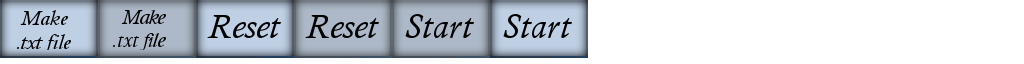
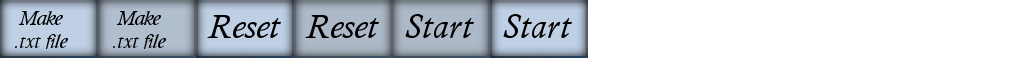
assets update

Changed region(s): [[0.0, 0.5312, 0.1875, 0.7812], [0.0, 0.1562, 0.1875, 0.4062]]

diff --git a/core/src/com/mygdx/deleter/screens/MainScreen.java b/core/src/com/mygdx/deleter/screens/MainScreen.java
@@ -15,6 +15,7 @@ import com.badlogic.gdx.scenes.scene2d.ui.Skin;
 import com.badlogic.gdx.scenes.scene2d.ui.Table;
 import com.mygdx.deleter.DeleterProject;
 import com.mygdx.deleter.ui.ButtonStart;
+import com.mygdx.deleter.ui.ButtonTxtMake;
 import com.mygdx.deleter.ui.IClickCallback;
 import com.mygdx.deleter.ui.TxtFileHandler;
 
@@ -45,7 +46,7 @@ public class MainScreen extends AbstractScreen {
 	private static List<String> inputFilesList;
 	public static List<String> fotoListFromTXT;
 	ButtonStart startButton;
-	ButtonStart makeTxtButton;
+	ButtonTxtMake buttonTxtStart;
 	
 	
 	public MainScreen(DeleterProject dp) {
@@ -80,9 +81,15 @@ public class MainScreen extends AbstractScreen {
 			System.err.println("click start");			
 		}
 	});
-		 
 	
-		 
+	 buttonTxtStart = new ButtonTxtMake(new IClickCallback() {
+		
+		@Override
+		public void onClick() {
+			TxtFileHandler.makeTXTFile(inputFilesList);
+		}
+	});
+		 	 
 	}
 
 	public static void initDragNDrop(Lwjgl3ApplicationConfiguration config) {
@@ -107,8 +114,7 @@ public class MainScreen extends AbstractScreen {
 					inputFilesList.add(file);
 				}
 				addMessageBottomPannel("File type: ." + fileType);
-				// TODO przerzucic do przycisku
-				//
+				
 			}
 		});
 	}
@@ -180,7 +186,7 @@ public class MainScreen extends AbstractScreen {
 		tableRight.row();
 		tableRight.add("2").height(145f).expandX().padTop(10f);
 		tableRight.row();
-		tableRight.add().height(56f).expandX().padTop(25f);
+		tableRight.add(buttonTxtStart).height(56f).expandX().padTop(25f);
 		tableRight.row();
 		tableRight.add(startButton).height(56f).width(96f).padBottom(20f).padTop(20f);
 		

diff --git a/core/src/com/mygdx/deleter/ui/ButtonTxtMake.java b/core/src/com/mygdx/deleter/ui/ButtonTxtMake.java
@@ -1,0 +1,45 @@
+package com.mygdx.deleter.ui;
+
+import com.badlogic.gdx.graphics.g2d.TextureAtlas;
+import com.badlogic.gdx.scenes.scene2d.InputEvent;
+import com.badlogic.gdx.scenes.scene2d.ui.Skin;
+import com.badlogic.gdx.scenes.scene2d.ui.Button;
+import com.badlogic.gdx.scenes.scene2d.ui.Button.ButtonStyle;
+import com.badlogic.gdx.scenes.scene2d.utils.ClickListener;
+
+public class ButtonTxtMake extends Button{
+	private static TextureAtlas startButtonAtlas;
+	public ButtonTxtMake(final IClickCallback callback){
+		super(prepareStartButtonStyle());
+		init(callback);
+	}
+	
+private void init(final IClickCallback callback) {
+	this.addListener(new ClickListener(){
+		@Override
+		public boolean touchDown(InputEvent event, float x, float y, int pointer, int button) {
+			callback.onClick();
+			return super.touchDown(event, x, y, pointer, button);
+		}
+	});
+	
+	}
+	//	public ButtonHandler(String imageName, final IClickCallback callback) {
+//		super(new Texture (imageName));
+//		this.addListener(new ClickListener(){
+//			@Override
+//			public boolean touchDown(InputEvent event, float x, float y, int pointer, int button) {
+//				callback.onClick();
+//				return super.touchDown(event, x, y, pointer, button);
+//			}
+//		});
+//	}
+	private static ButtonStyle prepareStartButtonStyle(){
+		startButtonAtlas = new TextureAtlas("buttons/allButtons.pack");
+		Skin skin  = new Skin(startButtonAtlas);
+		ButtonStyle buttonStyle = new ButtonStyle();
+		buttonStyle.up = skin.getDrawable("smallButtonMakeTxt");
+		buttonStyle.down = skin.getDrawable("smallButtonMakeTxtDown");
+		return buttonStyle;
+	}
+}
